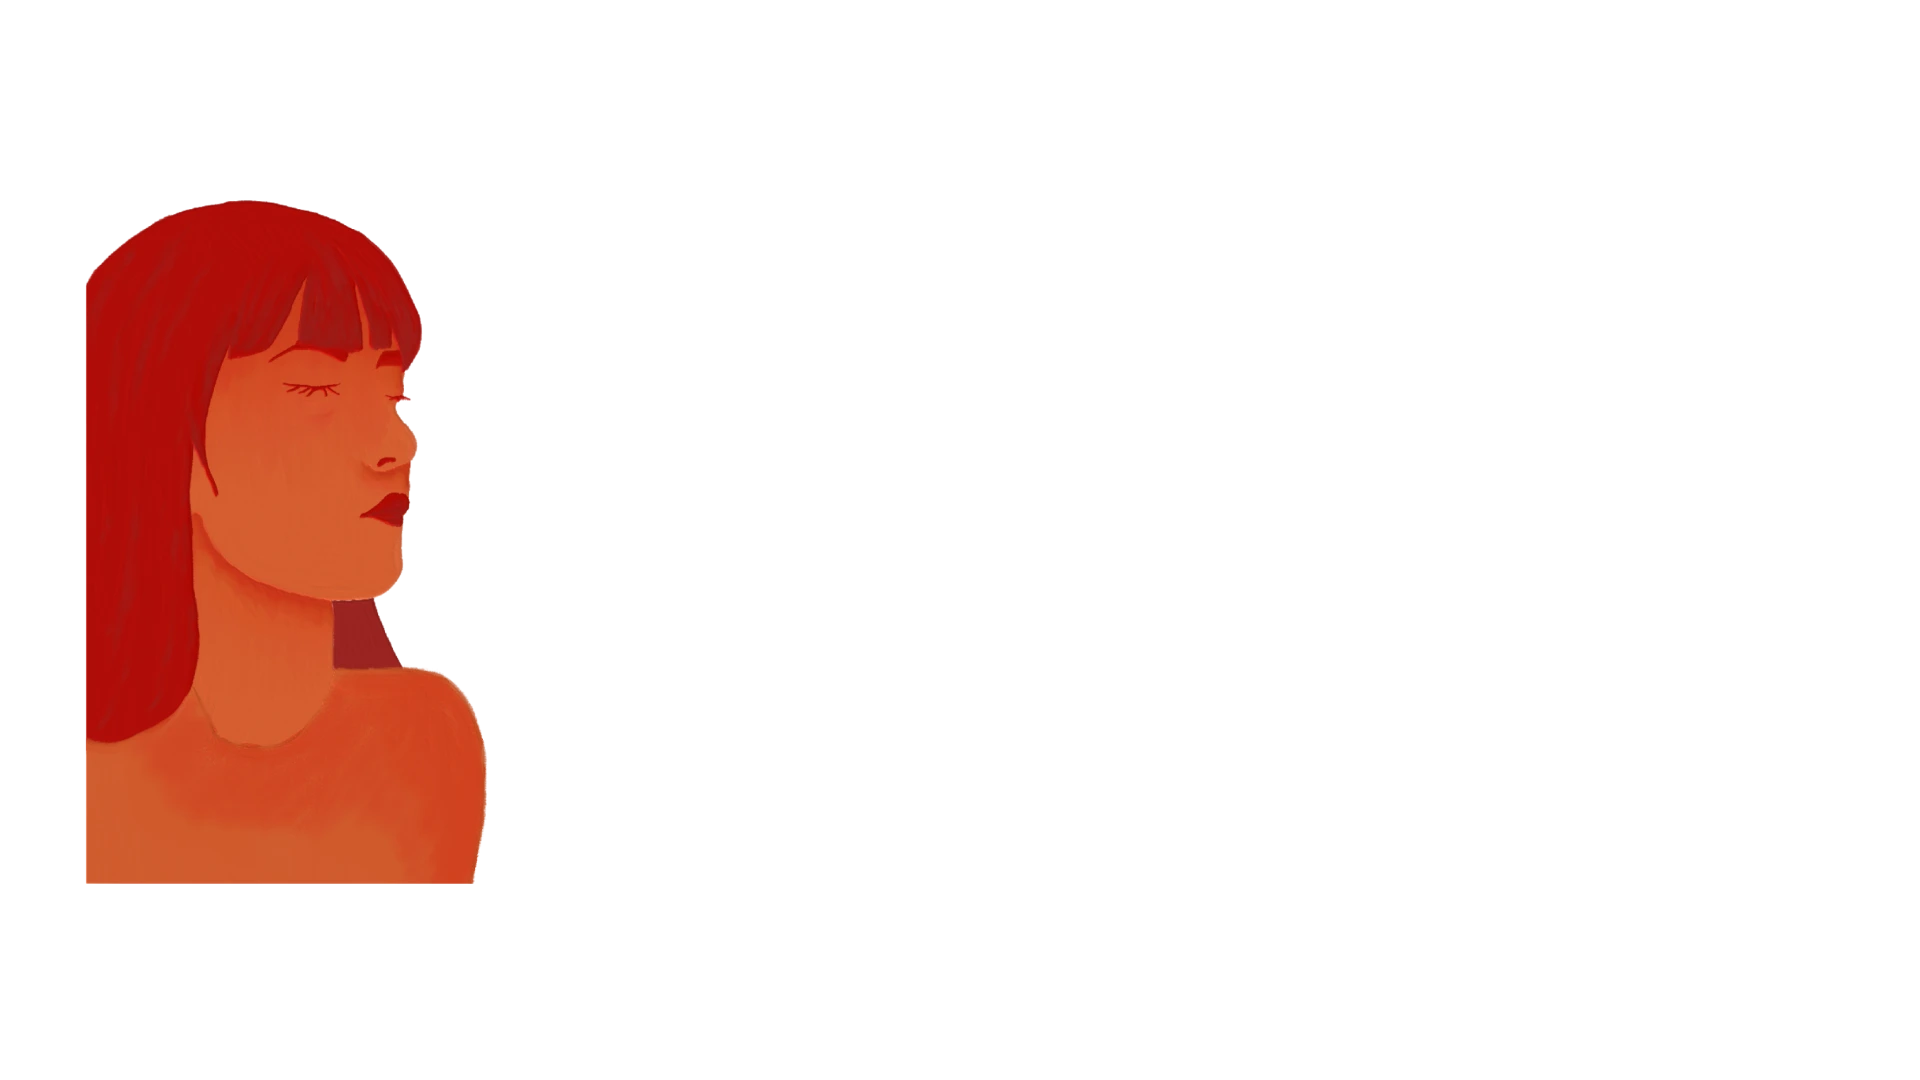
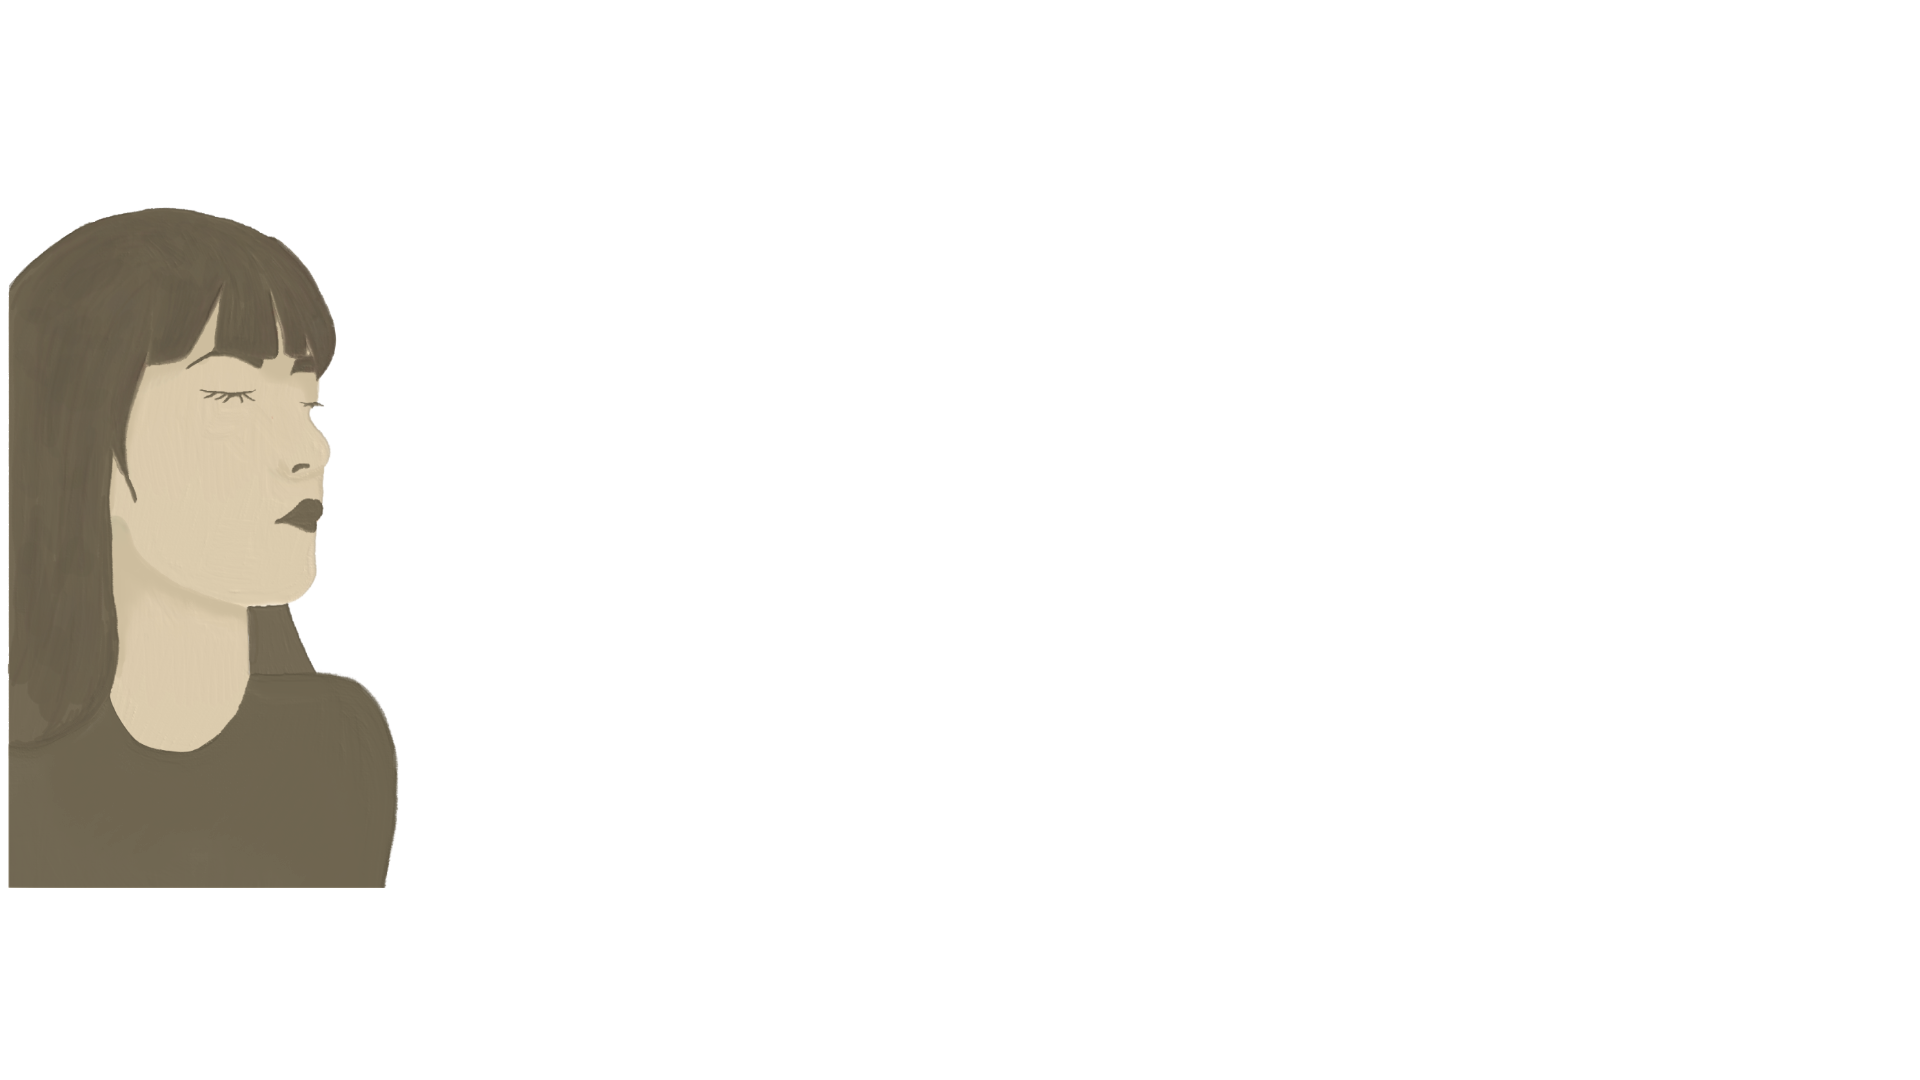
arrrr

Changed region(s): [[0.0, 0.1833, 0.2812, 0.825]]

diff --git a/sketch.js b/sketch.js
@@ -122,7 +122,7 @@ let zitate = [
 
 function preload() {
   test = loadImage('assets/Background 1.png');
-  test2= loadImage('assets/hintergrundskizze2.jpg');
+  //test2= loadImage('assets/hintergrundskizze2.jpg');
   headline = loadFont("assets/Avenir Heavy.ttf");
   fließtext = loadFont("assets/Avenir Regular.ttf");
   großerkreis= loadImage("assets/großer kreis.webp");
@@ -754,7 +754,7 @@ function drawpage2() {
   textFont(fließtext);
   textSize(cachedValues.textSizeFließtext);
   textLeading(cachedValues.textLeading);
-  text("For years, women have faced sexual harassment. With the rise of artificial intelligence, it's only getting\n worse. Deepfakes, which use A.I. to create manipulated, but hyper-realistic images and\nvideos of real people in fake situations, are routinely used against women. Data reveals very\nstrong global growth in deepfake pornography videos, particularly those created without\nconsent. The total number of deepfakes online was projected to rise from approximately 500,000\nin 2023 to around 8 million in 2025, representing exponential global growth.Some reports\nindicate that the volume of deepfakes roughly doubles every six months.",
+  text("For years, women have faced sexual harassment. With the rise of artificial intelligence, it's only getting\nworse. Deepfakes, which use A.I. to create manipulated, but hyper-realistic images and\nvideos of real people in fake situations, are routinely used against women. Data reveals very\nstrong global growth in deepfake pornography videos, particularly those created without\nconsent. The total number of deepfakes online was projected to rise from approximately 500,000\nin 2023 to around 8 million in 2025, representing exponential global growth.Some reports\nindicate that the volume of deepfakes roughly doubles every six months.",
   windowWidth/1.935, windowWidth/1.4);
 
   textFont(headline);
@@ -773,11 +773,11 @@ function drawpage2() {
   if (aktuellerButton === 1) {
     image(frau1, windowWidth/40-windowWidth/10, windowWidth/1.6, windowWidth, cachedValues.neueHoehe);
   } else if (aktuellerButton === 2) {
-    image(frau2, windowWidth/40-windowWidth/15, windowWidth/1.55, windowWidth, cachedValues.neueHoehe);
+    image(frau2, windowWidth/40-windowWidth/30, windowWidth/1.55, windowWidth, cachedValues.neueHoehe);
   } else if (aktuellerButton === 3) {
     image(frau3, windowWidth/40-windowWidth/13, windowWidth/1.6, windowWidth, cachedValues.neueHoehe);
   } else if (aktuellerButton === 4) {
-    image(frau4, windowWidth/40-windowWidth/12, windowWidth/1.6, windowWidth, cachedValues.neueHoehe);
+    image(frau4, windowWidth/40-windowWidth/20, windowWidth/1.6, windowWidth, cachedValues.neueHoehe);
   } else if (aktuellerButton === 5) {
     image(frau5, windowWidth/40-windowWidth/30, windowWidth/1.55, windowWidth, cachedValues.neueHoehe);
   }
